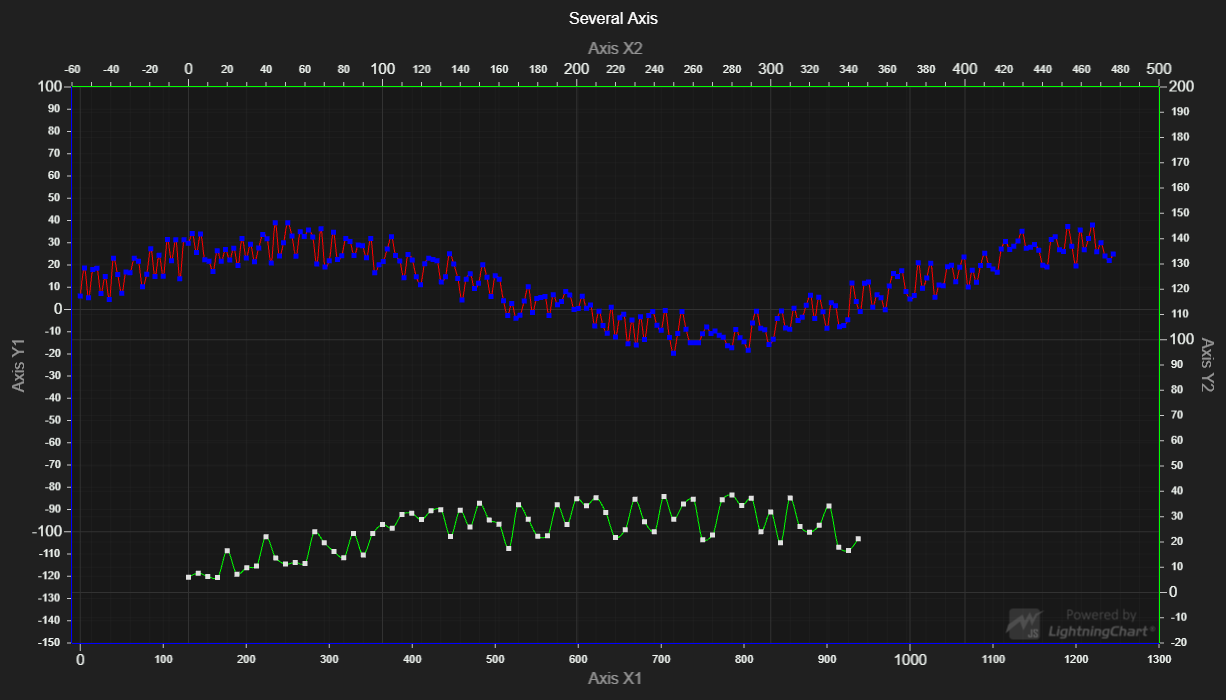
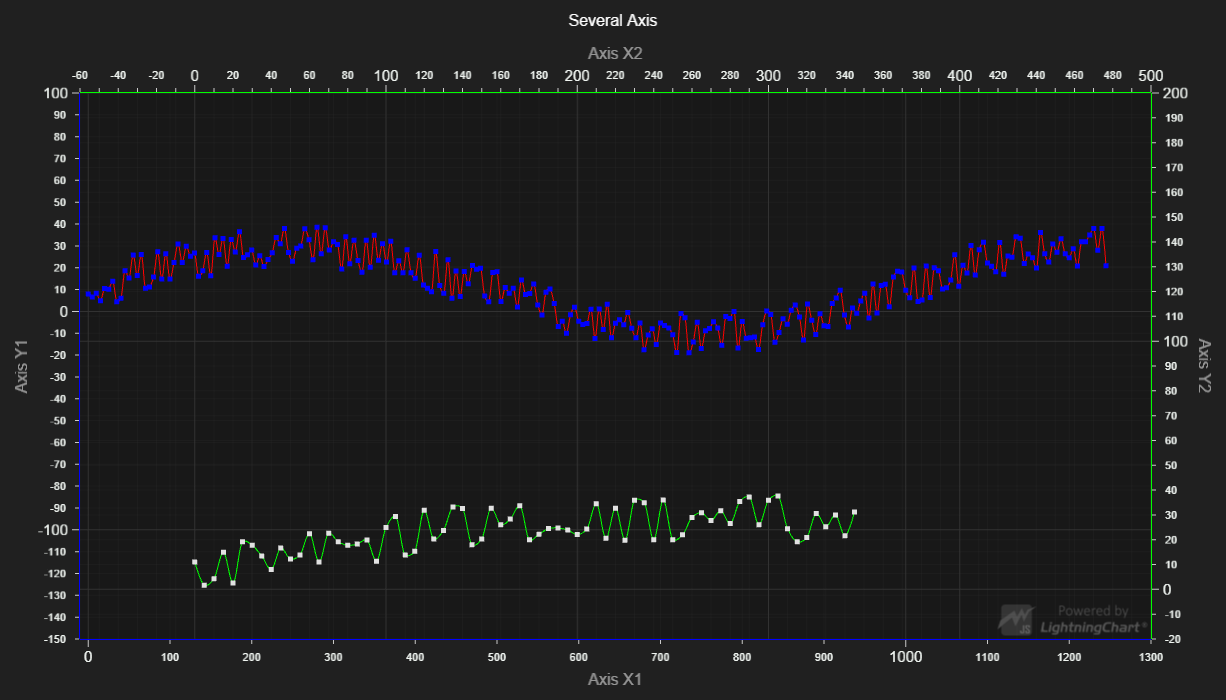
LCJS 3.0.0

diff --git a/src/index.js b/src/index.js
@@ -49,12 +49,16 @@ const axisY1 = chart.getDefaultAxisY()
     .setStrokeStyle( blueLine )
 
 // Second Axes  (extra)
-const axisX2 = chart.addAxisX(true)
+const axisX2 = chart.addAxisX({
+    opposite: true
+})
     .setTitle('Axis X2')
     .setInterval(-60, 500, false, true)
     .setStrokeStyle( greenLine )
 
-const axisY2 = chart.addAxisY(true)
+const axisY2 = chart.addAxisY({
+    opposite: true
+})
     .setTitle('Axis Y2')
     .setInterval(-20, 200, false, true)
     .setStrokeStyle( greenLine )

diff --git a/README.md b/README.md
@@ -32,8 +32,12 @@ const chart =  lightningChart().ChartXY()
 const axisX1 = chart.getDefaultAxisX()
 const axisX1 = chart.getDefaultAxisY()
 // Create extra axes X and Y 
-const axisX2 = chart.addAxisX(true)
-const axisX2 = chart.addAxisY(true)
+const axisX2 = chart.addAxisX({
+    opposite: true
+})
+const axisX2 = chart.addAxisY({
+    opposite: true
+})
 // Create series with explicit axes.
 const splineSeries1 = chart.addSplineSeries({
     xAxis: axisX1,
@@ -80,10 +84,10 @@ Direct developer email support can be purchased through a [Support Plan][4] or b
 © Arction Ltd 2009-2020. All rights reserved.
 
 
-[XY cartesian chart]: https://www.arction.com/lightningchart-js-api-documentation/v2.2.0/classes/chartxy.html
-[Rectangle series]: https://www.arction.com/lightningchart-js-api-documentation/v2.2.0/classes/rectangleseries.html
-[Axis]: https://www.arction.com/lightningchart-js-api-documentation/v2.2.0/classes/axis.html
-[Solid FillStyle]: https://www.arction.com/lightningchart-js-api-documentation/v2.2.0/classes/solidfill.html
-[Solid LineStyle]: https://www.arction.com/lightningchart-js-api-documentation/v2.2.0/classes/solidline.html
-[RGBA color factory]: https://www.arction.com/lightningchart-js-api-documentation/v2.2.0/globals.html#colorrgba
+[XY cartesian chart]: https://www.arction.com/lightningchart-js-api-documentation/v3.0.0/classes/chartxy.html
+[Rectangle series]: https://www.arction.com/lightningchart-js-api-documentation/v3.0.0/classes/rectangleseries.html
+[Axis]: https://www.arction.com/lightningchart-js-api-documentation/v3.0.0/classes/axis.html
+[Solid FillStyle]: https://www.arction.com/lightningchart-js-api-documentation/v3.0.0/classes/solidfill.html
+[Solid LineStyle]: https://www.arction.com/lightningchart-js-api-documentation/v3.0.0/classes/solidline.html
+[RGBA color factory]: https://www.arction.com/lightningchart-js-api-documentation/v3.0.0/globals.html#colorrgba
 
